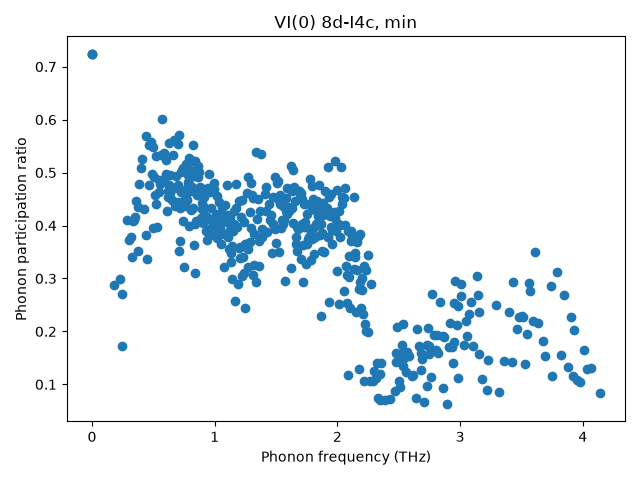
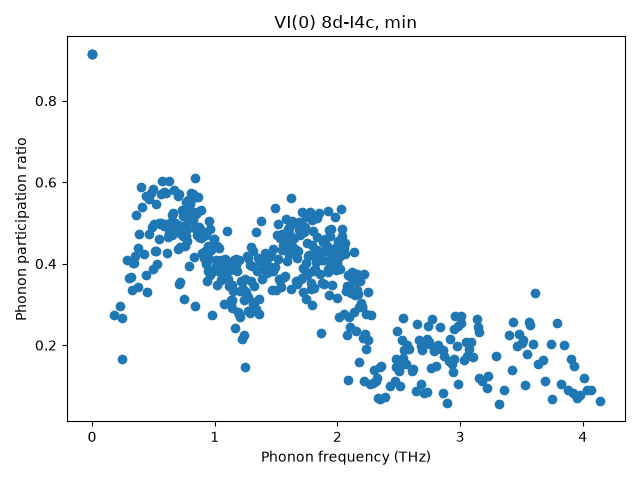
Changed how PPR calculated, masses not needed. Can also plot projections of each eigenmode into atomic displacement basis vectors

diff --git a/migration/min/PPR.py b/migration/min/PPR.py
@@ -31,108 +31,135 @@ def get_mass(atoms):
 
 
 # calculate mod squared of atomic displacement vector within given normal mode e_jq
-def mod_sq(evec):
+def mod_sq(vector):
     sum = 0
-    for j in evec:
+    for j in vector:
         sum = sum + j*j
     return sum
 
 
 # functions for 1st & 2nd energy moments
-# sum up the atom-projected kinetic energy terms for the e_jq eigenmode
-# input mass vector m & displacement vector r, for all k 
-# eigenvector contains r at every k as list of lists
-# for the 1st energy moment, input m_k and |r_k|^2 as is, then square output
-def M1(mass, disp):
+# phonopy outputs eigenvectors already normalised; so masses not necessary
+# input atom-projected components of the eigenvector = atomic displacement vector, for all k for e_jq eigenmode
+# for the 1st moment, square output
+def M1(disp):
     N_atoms = len(disp)
     sum = 0
     for k in range(N_atoms):
-        sum = sum + mass[k]*mod_sq(disp[k])
+        #sum = sum + mass[k]*mod_sq(disp[k])
+        sum = sum + mod_sq(disp[k])
     return sum*sum
 
 
 # for the 2nd energy moment, use squares of the inputs
-def M2(mass, disp):
+def M2(disp):
     N_atoms = len(disp)
     sum = 0
     for k in range(N_atoms):
-        sum = sum + (mass[k]*mod_sq(disp[k]))**2
+        #sum = sum + (mass[k]*mod_sq(disp[k]))**2
+        sum = sum + (mod_sq(disp[k]))*(mod_sq(disp[k]))
     return sum  
 
-## calculate PPR ##
-m = get_mass(data_atoms)
+#m = get_mass(data_atoms)
 
-#acoustic modes [0,2] aren't relevant; at q=0 they should all be collective translations
+## calculate PPR ##
+
+# acoustic modes [0,2] aren't relevant; at q=0 they should all be collective translations
 # so PPR ~ 1
 e0 = get_evec(data_bands, 0)
 
-# check normalisation of eigenmodes; need to loop over all elements from all atomic contributions
-#print(e0)
+# first optical mode, probably more localised? so PPR < 1
+e3 = get_evec(data_bands, 3)
 
+p0 = M1(e0)/(len(e0)*M2(e0))
+ip0 = 1/M2(e0)
+p3 = M1(e3)/(len(e3)*M2(e3))
+ip3 = 1/M2(e3)
+
+print("(sum of |n|^2)^2 (acoustic) = ", M1(e0))
+print("sum of (|n|^2)^2 (acoustic) = ", M2(e0))
+
+print("PPR for band 1 (acoustic)", "at q = 0:", p0)
+#print("IPPR for band 1 (acoustic)", "at q = 0:", ip0)
+print("PPR for band 4 (optical)", "at q = 0:", p3)
+#print("IPPR for band 2 (acoustic)", "at q = 0:", ip1)
+
+# check normalisation of eigenmodes; need to loop over all elements from all atomic contributions
 e0_full = [None]*len(e0)*3
 count = 1
 for k in range(len(e0)):
     count = count -1
     for j in range(3):
         i = k + count
-        #print("i = ", i)
         e0_full[i] = e0[k][j]
-        #print(e0_full[i])
         count = count + 1
-print(e0_full)
 
 print("|e0|^2 = ", mod_sq(e0_full))
-
-# first optical mode, probably more localised? so PPR < 1
-e3 = get_evec(data_bands, 3)
-e400 = get_evec(data_bands, 100)
-
-p0 = M1(m, e0)/(len(e0)*M2(m, e0))
-p3 = M1(m, e3)/(len(e3)*M2(m, e3))
-
-#print("M1 for band 0", ":", M1(m, e0))
-#print("N_k*M2 for band 0", ":", len(e0)*M2(m, e0))
-print("PPR for band 0", "at q = 0:", p0)
-#print("M1 for band 3", ":", M1(m, e3))
-#print("N_k*M2 for band 3", ":", len(e3)*M2(m, e3))
-print("PPR for band 3", "at q = 0:", p3)
 
 # loop over all phonon modes j, plot the PPRs?
 # finally make an Natoms variable, won't be too slow here because not referencing in different scope
 Nj = len(data_bands)
-Nk = len(m)
+Nk = len(data_bands[0]["eigenvector"])
 freqs = [None]*Nj
 modes = [None]*Nj
 pj = [None]*Nj
+proj_Pb = [None]*Nj
+proj_Cs = [None]*Nj
+proj_I = [None]*Nj
+proj_Br = [None]*Nj
+#ipj = [None]*Nj
 for j in range(Nj):
     ej = get_evec(data_bands, j)
-    pj[j] = M1(m, ej)/(Nk*M2(m, ej)) 
+    pj[j] = M1(ej)/(Nk*M2(ej)) 
+    #ipj[j] = 1/M2(ej) 
     freqs[j] = data_bands[j]["frequency"] 
     modes[j] = j+1
+    
+    
+# also plot the magnitude of atom projections, for each mode
+# each atomic displacement component r_k
+# plot the projection into each of 159 atoms for all 477 modes??
+# or show proj into atomic species Cs, Pb, I, Br
+# since I only care about behaviour of individual modes, can look at all atoms
+proj_e0 = [None]*Nk
+proj_e3 = [None]*Nk
+atoms = [None]*Nk
+for k in range(Nk):
+    proj_e0[k] = mod_sq(e0[k])
+    proj_e3[k] = mod_sq(e3[k])
+    atoms[k] = k+1
     
 # maybe plot a delta function at each frequency instead??
 # or plot j instead of freq for even spacing
     
 fig1, ax1 = plt.subplots(1, 1)
-#ax1.scatter(freqs, pj, marker='o', linewidths=0.1) 
 ax1.scatter(freqs, pj, linewidth=1.0) 
-#ax1.set_xlim()
-#ax1.set_ylim()
 ax1.set_xlabel("Phonon frequency (THz)", size="medium")
 ax1.set_ylabel("Phonon participation ratio", size="medium")
-#ax1.legend()
 ax1.set_title("VI(0) 8d-I4c, min")
 fig1.tight_layout()
 fig1.savefig("./PPR_freq.png")
 
 fig2, ax2 = plt.subplots(1, 1)
-#ax1.scatter(freqs, pj, marker='o', linewidths=0.1) 
 ax2.scatter(modes, pj, linewidth=1.0) 
-#ax1.set_xlim()
-#ax1.set_ylim()
 ax2.set_xlabel("Phonon mode index j", size="medium")
 ax2.set_ylabel("Phonon participation ratio", size="medium")
-#ax1.legend()
 ax2.set_title("VI(0) 8d-I4c, min")
 fig2.tight_layout()
 fig2.savefig("./PPR_j.png")
+
+fig3, ax3 = plt.subplots(1, 1)
+ax3.scatter(atoms, proj_e0, linewidth=1.0) 
+ax3.set_xlabel("Atom index", size="medium")
+ax3.set_ylabel("Atomic projection", size="medium")
+ax3.set_title("VI(0) 8d-I4c, min, e0 (acoustic mode)")
+fig3.tight_layout()
+fig3.savefig("./atom_proj_e0.png")
+
+fig4, ax4 = plt.subplots(1, 1)
+ax4.scatter(atoms, proj_e3, linewidth=1.0) 
+ax4.set_xlabel("Atom index", size="medium")
+ax4.set_ylabel("Atomic projection", size="medium")
+ax4.set_title("VI(0) 8d-I4c, min, e3 (1st optical mode)")
+fig4.tight_layout()
+fig4.savefig("./atom_proj_e3.png")
